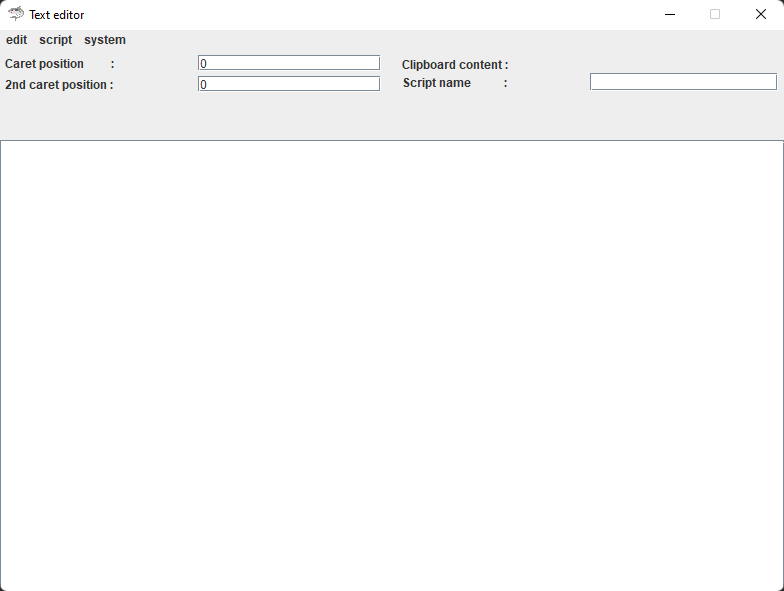
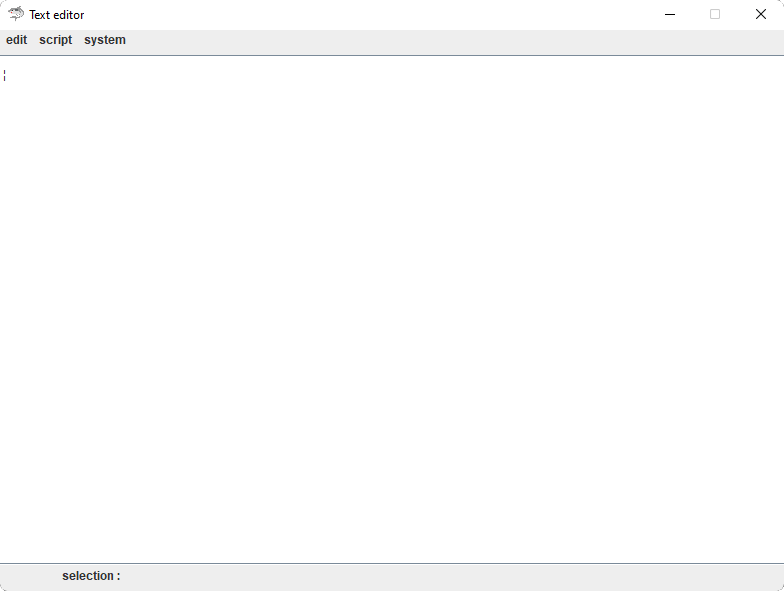
update README.md

diff --git a/README.md b/README.md
@@ -81,7 +81,7 @@ Lorsque l'on lance l'interface de la V2, on remarque qu'il y a eu du changement 
     
 * Les boutons ont étés remplacés par un bandeau de menu
 * le theme de couleur a changé
-* le bandeau principal est plus petit
+* le bandeau principal est devenu un petit bandeau d'information en bas
 
 ![Interface V2](/dat/V2/Interface.png)
 
@@ -90,14 +90,14 @@ tous dans menu>edit. Cette section comporte aussi les deux nouvelles fonctionnal
 pour annuler une action ou annuler une annulation.
 
 
-On peut maintenant faire des scripts. Ces scripts enregistreront toutes les commandes jusqu'à la 
+Les scripts sont maintenant disponibles ! Ces scripts enregistreront toutes les commandes jusqu'à la 
 sauvegarde. Pour jouer un script, il faut aller dans menu>script>load et choisir le script à 
 exécuter parmi la liste des scripts disponibles.
 
 ⚠⚠ Veillez à bien indiquer un nom de script avant d'enregistrer. Pour nommer un script, il
 suffit d'entrer le nom voulu dans le champ "Script name".
 
-Autres fonctionnalités :
+Autres nouveautés :
 
 * Les deux curseurs sont maintenant synchrones. Pour faire une selection, il suffit de déplacer le
 deuxième curseur.
@@ -109,4 +109,14 @@ deuxième curseur.
 * Le retour chariot a été ajouté dans la liste des caractères disponibles
 
 
-* il est possible de déplacer le curseur principal avec les flèches de droite et de gauche.
+* il est possible de déplacer le curseur principal avec les flèches de droite et de gauche et le 
+second curseur avec les fleches haut et bas.
+
+⚠⚠ Il n'est pas possible pur le second curseur d'être devant le premier curseur.
+
+* Des raccourcis claviers sont disponibles ! 
+  * copier => ctrl + F1
+  * couper => ctrl + F2
+  * coller => ctrl + F3
+  * undo   => ctrl + F4
+  * redo   => ctrl + F5
